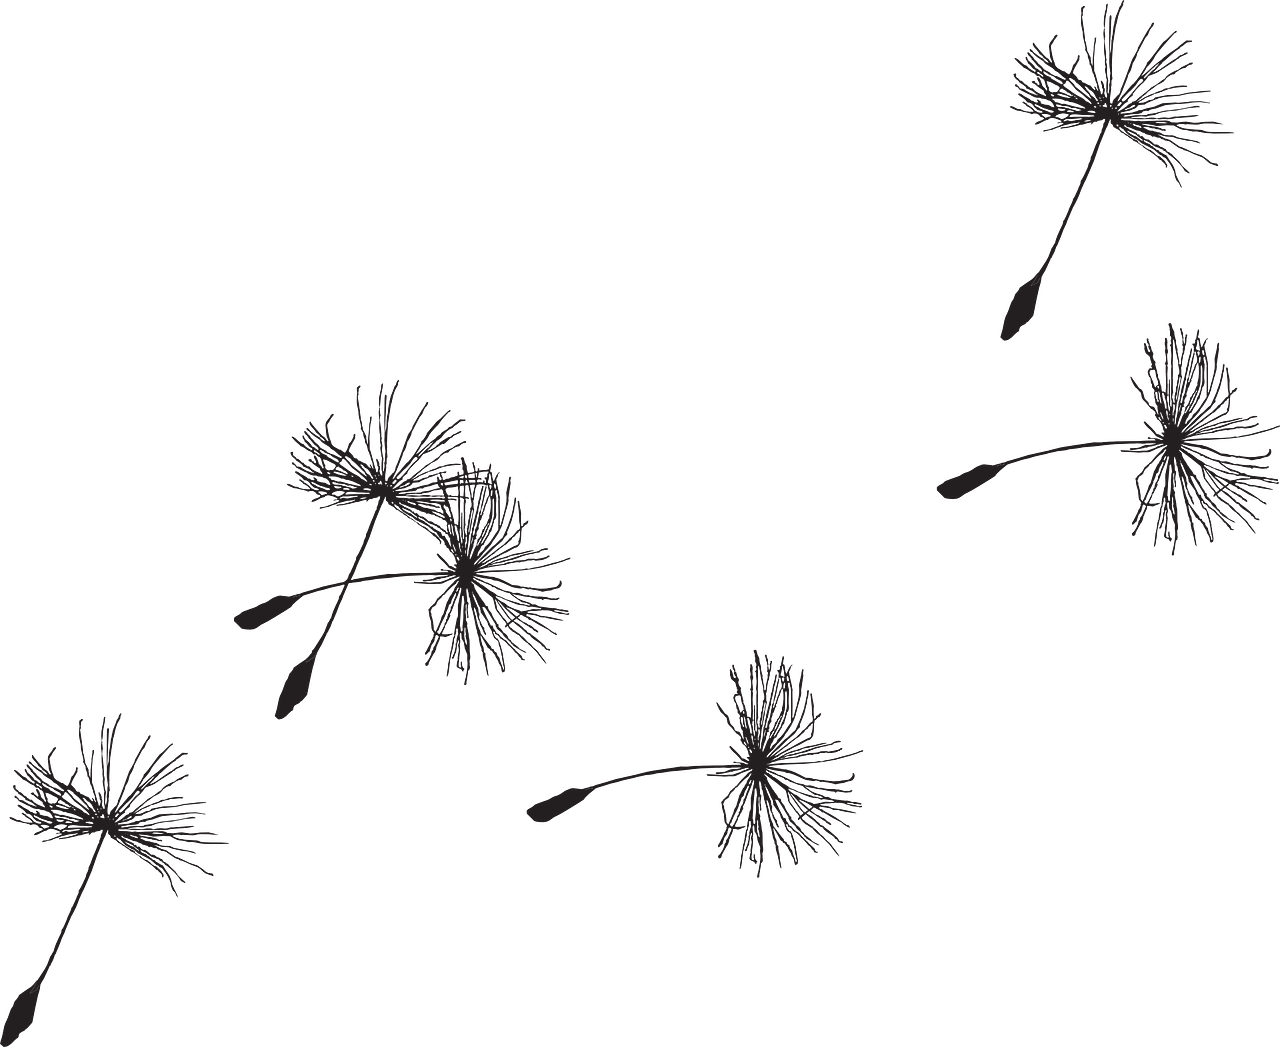
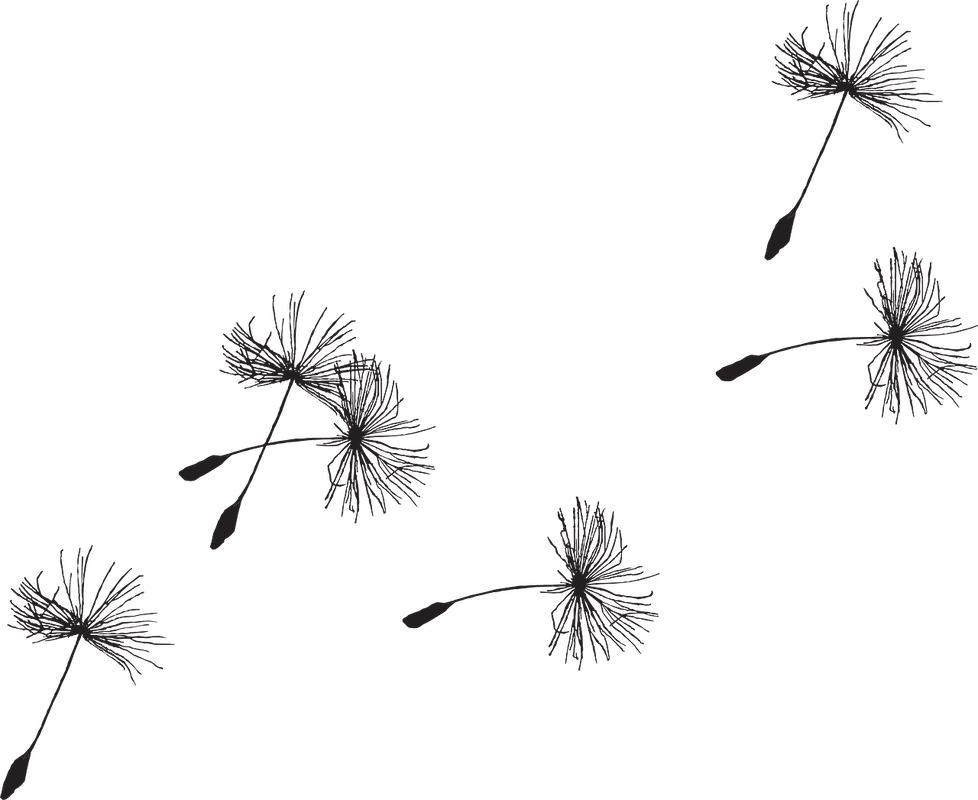
add vertical svgs

diff --git a/src/components/LineTwo.js b/src/components/LineTwo.js
@@ -1,0 +1,35 @@
+import React from "react";
+import styled from "styled-components";
+//ANimations
+import { motion } from "framer-motion";
+
+const LineTwo = () => {
+  return (
+    <>
+      <LineTwoSvg
+        viewBox="0 0 850 450"
+        fill="none"
+        xmlns="http://www.w3.org/2000/svg"
+      >
+        <motion.path
+          initial={{ pathLength: 0, pathOffset: 1 }}
+          animate={{ pathLength: 1, pathOffset: 0 }}
+          transition={{ duration: 1.8 }}
+          d="M40.5 1.00002C45.3489 42.8649 -23.4788 253.948 9.46035 394.275C42.7566 573.933 79.5595 602.346 18.5 691.5"
+          stroke="#1f9414"
+          strokeOpacity="0.5"
+          strokeWidth="4"
+        />
+      </LineTwoSvg>
+    </>
+  );
+};
+
+const LineTwoSvg = styled.svg`
+  position: absolute;
+  left: 2%;
+  top: 0;
+  z-index: -1;
+`;
+
+export default LineTwo;

diff --git a/src/components/LineOne.js b/src/components/LineOne.js
@@ -1,0 +1,35 @@
+import React from "react";
+import styled from "styled-components";
+//ANimations
+import { motion } from "framer-motion";
+
+const LineOne = () => {
+  return (
+    <>
+      <LineOneSvg
+        viewBox="0 0 850 450"
+        fill="none"
+        xmlns="http://www.w3.org/2000/svg"
+      >
+        <motion.path
+          initial={{ pathLength: 0, pathOffset: 1 }}
+          animate={{ pathLength: 1, pathOffset: 0 }}
+          transition={{ duration: 1.6 }}
+          d="M53.1419 1.12999C46.803 44.489 68.837 166.873 26.294 312.148C-16.8462 498.173 -4.6064 537.465 73 630.057"
+          stroke="#10ac02"
+          strokeOpacity="0.5"
+          strokeWidth="5"
+        />
+      </LineOneSvg>
+    </>
+  );
+};
+
+const LineOneSvg = styled.svg`
+  position: absolute;
+  left: 0;
+  top: 0;
+  z-index: -1;
+`;
+
+export default LineOne;

diff --git a/src/components/LineThree.js b/src/components/LineThree.js
@@ -1,0 +1,35 @@
+import React from "react";
+import styled from "styled-components";
+//ANimations
+import { motion } from "framer-motion";
+
+const LineThree = () => {
+  return (
+    <>
+      <LineThreeSvg
+        viewBox="0 0 850 450"
+        fill="none"
+        xmlns="http://www.w3.org/2000/svg"
+      >
+        <motion.path
+          initial={{ pathLength: 0, pathOffset: 1 }}
+          animate={{ pathLength: 1, pathOffset: 0 }}
+          transition={{ duration: 1.5 }}
+          d="M38.5 0.999984C49.5 53.5 10 201.5 84.5 377.5C159.867 602.817 138.057 650.309 0.5 762"
+          stroke="#38d32a"
+          strokeOpacity="0.5"
+          strokeWidth="6"
+        />
+      </LineThreeSvg>
+    </>
+  );
+};
+
+const LineThreeSvg = styled.svg`
+  position: absolute;
+  left: 0;
+  top: 0;
+  z-index: -1;
+`;
+
+export default LineThree;

diff --git a/src/components/AboutSection.js b/src/components/AboutSection.js
@@ -3,7 +3,10 @@ import flower1 from "../img/flower1.png";
 //ANimations
 import { motion } from "framer-motion";
 import { titleAnim, fade, photoAnim } from "../animation";
-import Wave from "./Wave";
+
+import LineOne from "./LineOne";
+import LineTwo from "./LineTwo";
+import LineThree from "./LineThree";
 
 //Style
 import { SectionStyle, Description, Image, Hide } from "../styles";
@@ -40,7 +43,10 @@ const AboutSection = () => {
           alt="camera guy"
         />
       </Image>
-      <Wave />
+
+      <LineOne />
+      <LineTwo />
+      <LineThree />
     </SectionStyle>
   );
 };

diff --git a/src/styles.js b/src/styles.js
@@ -6,7 +6,7 @@ export const SectionStyle = styled(motion.div)`
   display: flex;
   align-items: center;
   justify-content: space-between;
-  padding: 5rem 8rem;
+  padding: 5rem 10rem;
   color: white;
 `;
 export const Description = styled.div`
@@ -20,9 +20,8 @@ export const Image = styled.div`
   flex: 1;
   overflow: hidden;
   img {
-    width: 100%;
-    height: 80vh;
-    object-fit: cover;
+    max-width: 100%;
+    height: auto;
   }
 `;
 

diff --git a/public/index.html b/public/index.html
@@ -33,7 +33,7 @@
       work correctly both with client-side routing and a non-root public URL.
       Learn how to configure a non-root public URL by running `npm run build`.
     -->
-    <title>React App</title>
+    <title>Seed to Tree</title>
   </head>
   <body>
     <noscript>You need to enable JavaScript to run this app.</noscript>

diff --git a/src/components/FaqSection.js b/src/components/FaqSection.js
@@ -35,7 +35,7 @@ const FaqSection = () => {
             </p>
           </div>
         </Toggle>
-        <Toggle title="Wher can i get support?">
+        <Toggle title="Where can i get support?">
           <div className="answer">
             <p>Lorem ipsum dolor sit amet.</p>
             <p>
